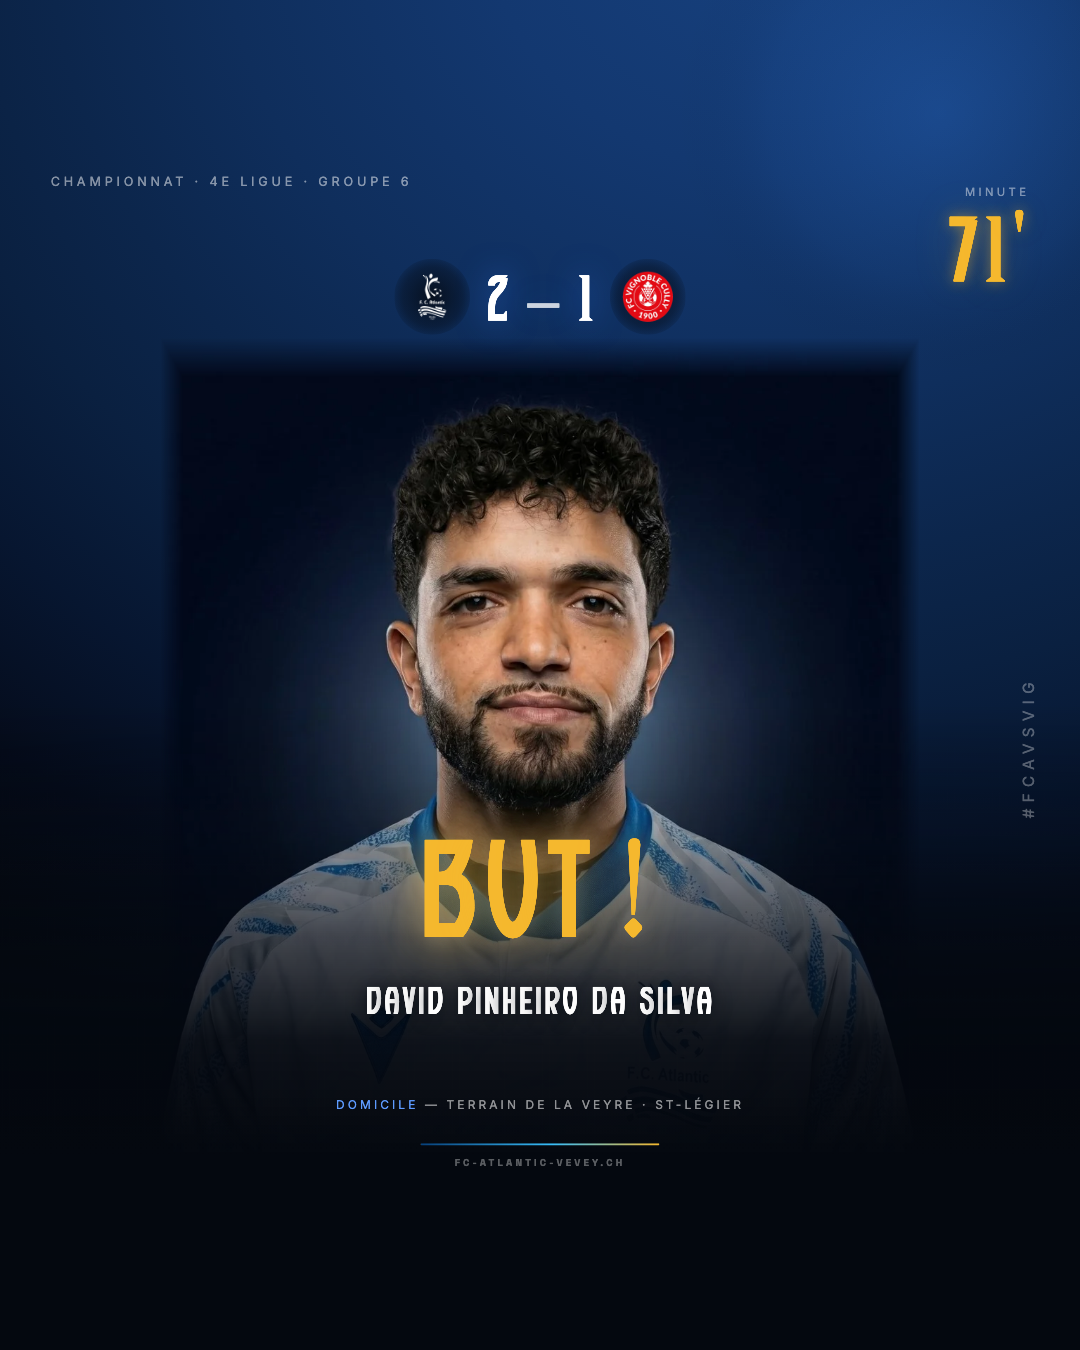
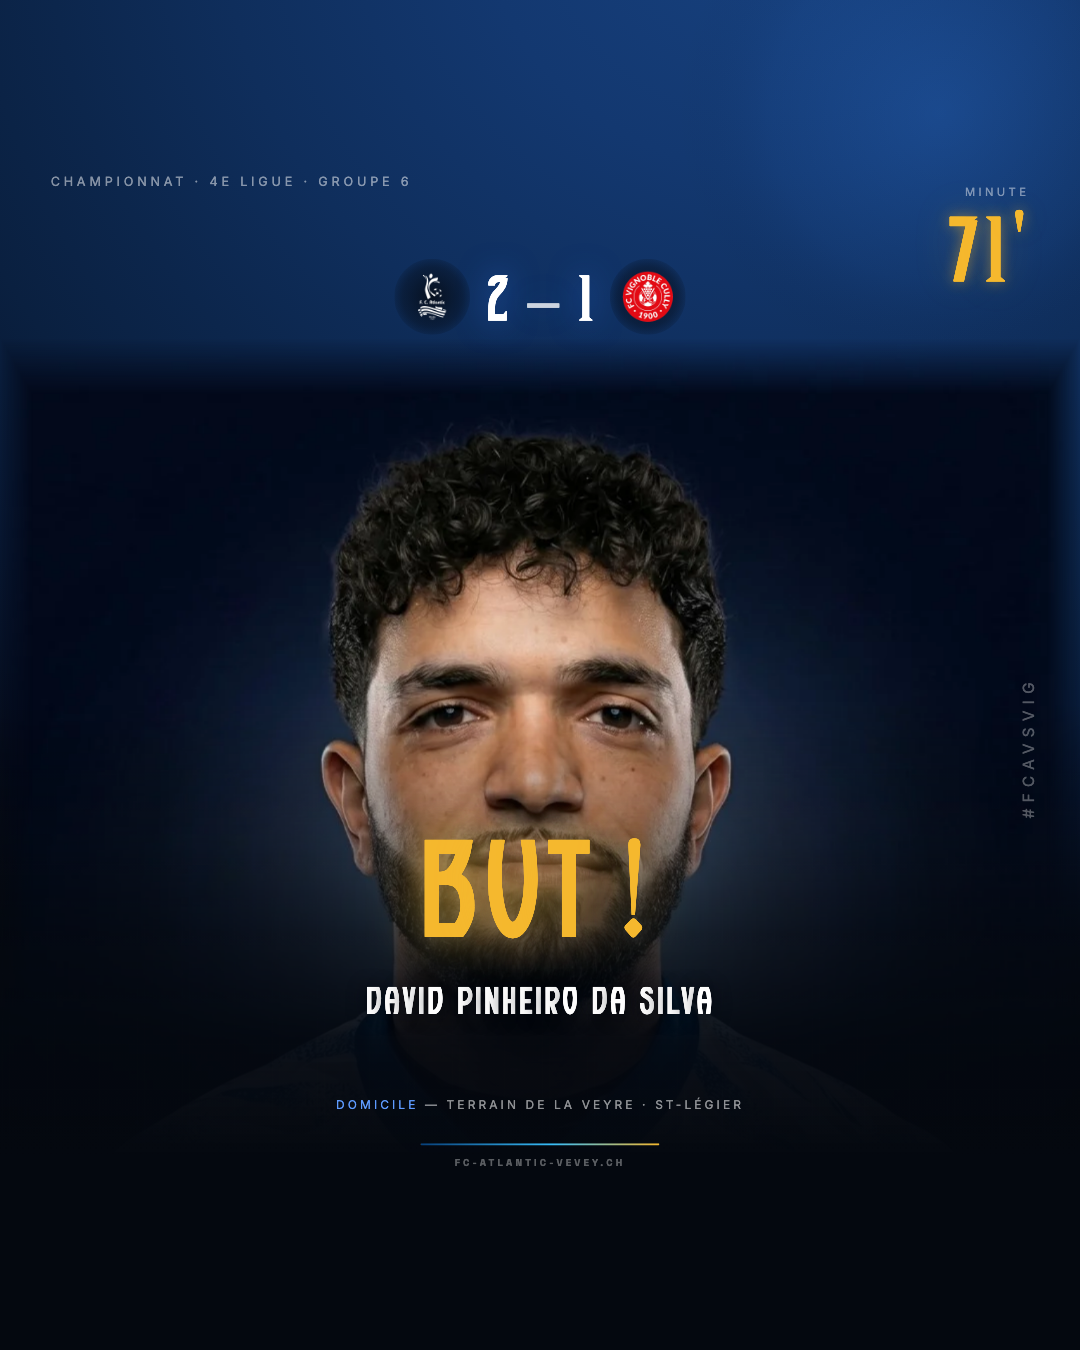
fix(design): photo pleine largeur en post + doublons de labels
- POST 4:5 : le canvas de composition est plus large que 1080 ; la photo
  figée à 1080 laissait voir sa propre boîte sombre sur les côtés. FB.vw
  porte la largeur réelle du canvas, la photo s'y cale (posé par posterHTML).
- Kickoff : « COUP D'ENVOI » n'est plus écrit deux fois (titre + label du
  chiffre) → label « Heure ».
- Mi-temps : « PAUSE » n'est plus écrit deux fois → kicker « Match en cours »,
  label « Minute ».

Changed region(s): [[0.1833, 0.28, 0.825, 0.7467], [0.825, 0.2489, 1.0, 0.56], [0.0, 0.2489, 0.1833, 0.4667]]

diff --git a/index.html b/index.html
@@ -1355,14 +1355,18 @@
      story 1080×1920 fixe ; en post 4:5 le shell scale le canvas virtuel. */
   const FB = {
     royal: '#2E7BFF',
+    /* Largeur du canvas de composition : 1080 en story, plus large en post
+       (canvas virtuel scalé). Posée par shellWrap avant chaque rendu. */
+    vw: 1080,
     bg() {
       return `<div style="position:absolute; inset:0; background:radial-gradient(135% 95% at 72% -14%, #17417F 0%, #133870 20%, #0F2E5C 38%, #0C264C 50%, #0A2040 60%, #071630 72%, #050C1C 84%, #04080F 96%);"></div>
       <div style="position:absolute; inset:0; background:radial-gradient(90% 60% at 30% 110%, rgba(8,65,123,0.25) 0%, rgba(8,65,123,0.08) 50%, transparent 75%);"></div>
       <div style="position:absolute; top:-220px; right:-180px; width:760px; height:760px; background:radial-gradient(circle, rgba(56,140,255,0.2) 0%, rgba(56,140,255,0.06) 45%, transparent 70%);"></div>`;
     },
     photo(d) {
+      const w = FB.vw;
       return `<div style="position:absolute; top:430px; left:50%; margin-left:-420px; width:840px; height:840px; background:radial-gradient(circle, rgba(46,123,255,0.3) 0%, rgba(46,123,255,0.1) 42%, transparent 68%);"></div>
-      <div style="position:absolute; left:50%; margin-left:-540px; top:480px; width:1080px; height:1440px; background-image:url('${d}'); background-size:contain; background-position:center top; background-repeat:no-repeat;"></div>`;
+      <div style="position:absolute; left:0; top:480px; width:${w}px; height:${Math.round(w * 4 / 3)}px; background-image:url('${d}'); background-size:contain; background-position:center top; background-repeat:no-repeat;"></div>`;
     },
     scrim(topY = 1020) {
       return `<div style="position:absolute; left:0; right:0; top:${topY}px; bottom:0; background:linear-gradient(180deg, transparent 0%, rgba(4,8,15,0.35) 20%, rgba(4,8,15,0.72) 36%, rgba(4,8,15,0.95) 52%, rgba(4,8,15,1) 70%);"></div>`;
@@ -1598,7 +1602,7 @@
         ${FB.sub('Dans quelques instants', 430, 44)}
         ${FB.compline(502)}
         <div style="position:absolute; right:72px; top:296px; text-align:right;">
-          <div style="font-family:'Inter', sans-serif; font-weight:600; font-size:17px; letter-spacing:0.32em; text-transform:uppercase; color:rgba(255,255,255,0.5); margin-bottom:12px;">Coup d'envoi</div>
+          <div style="font-family:'Inter', sans-serif; font-weight:600; font-size:17px; letter-spacing:0.32em; text-transform:uppercase; color:rgba(255,255,255,0.5); margin-bottom:12px;">Heure</div>
           ${FB.timeBlock(150)}
         </div>
         ${FB.rail()}
@@ -1806,11 +1810,11 @@
         ${FB.bg()}
         ${FB.photo(heroHPhoto)}
         ${FB.scrim()}
-        ${FB.kicker('Pause · Saison 26/27')}
+        ${FB.kicker('Match en cours · Saison 26/27')}
         ${FB.titre('MI-TEMPS', 150)}
         ${FB.compline(470)}
         <div style="position:absolute; right:72px; top:296px; text-align:right;">
-          <div style="font-family:'Inter', sans-serif; font-weight:600; font-size:16px; letter-spacing:0.3em; text-transform:uppercase; color:rgba(255,255,255,0.45); margin-bottom:12px;">Pause</div>
+          <div style="font-family:'Inter', sans-serif; font-weight:600; font-size:16px; letter-spacing:0.3em; text-transform:uppercase; color:rgba(255,255,255,0.45); margin-bottom:12px;">Minute</div>
           ${FB.chiffre("45'", 140, '#F5B82E')}
         </div>
         ${FB.rail()}
@@ -2046,6 +2050,11 @@
   /* Master dispatcher */
   function posterHTML() {
     const v = state.variant;
+    /* Largeur du canvas de composition pour les briques FB (photo pleine
+       largeur) : le post rend dans un canvas virtuel plus large que 1080. */
+    FB.vw = state.format === 'post' && v !== 'lineup'
+      ? Math.round(FORMATS.post.w / (FORMATS.post.h / 1920))
+      : 1080;
     // Lineup is too dense for 4:5 → force story format for this variant only
     let savedFormat = null;
     if (v === 'lineup' && state.format === 'post') {
